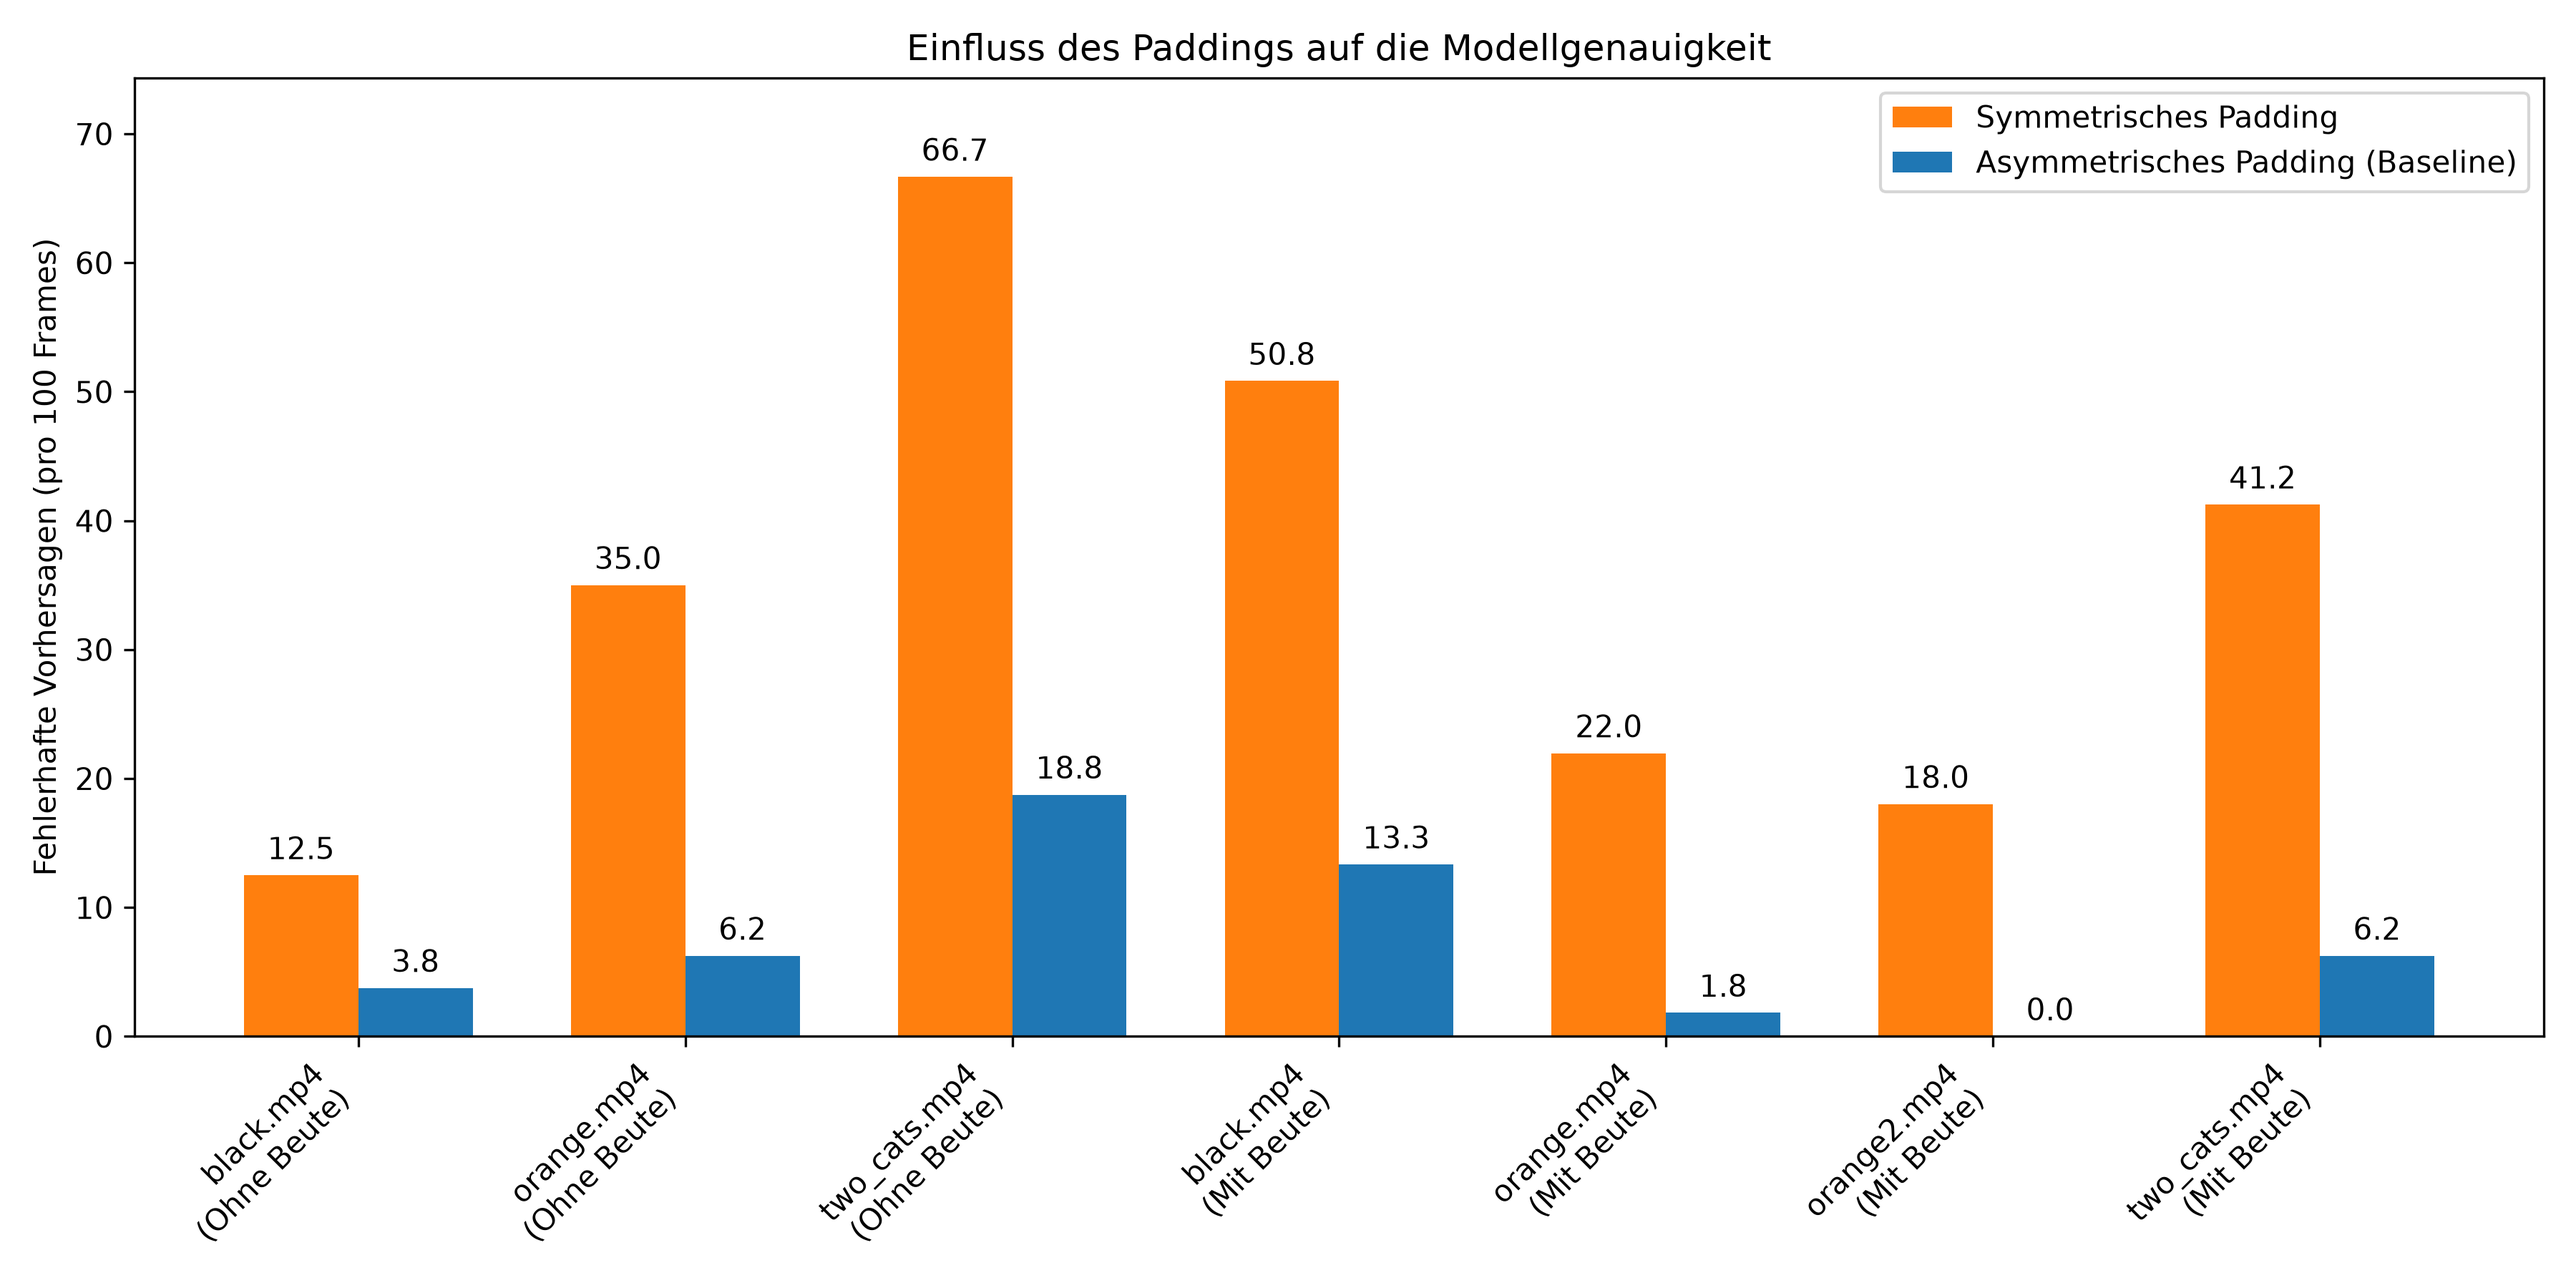
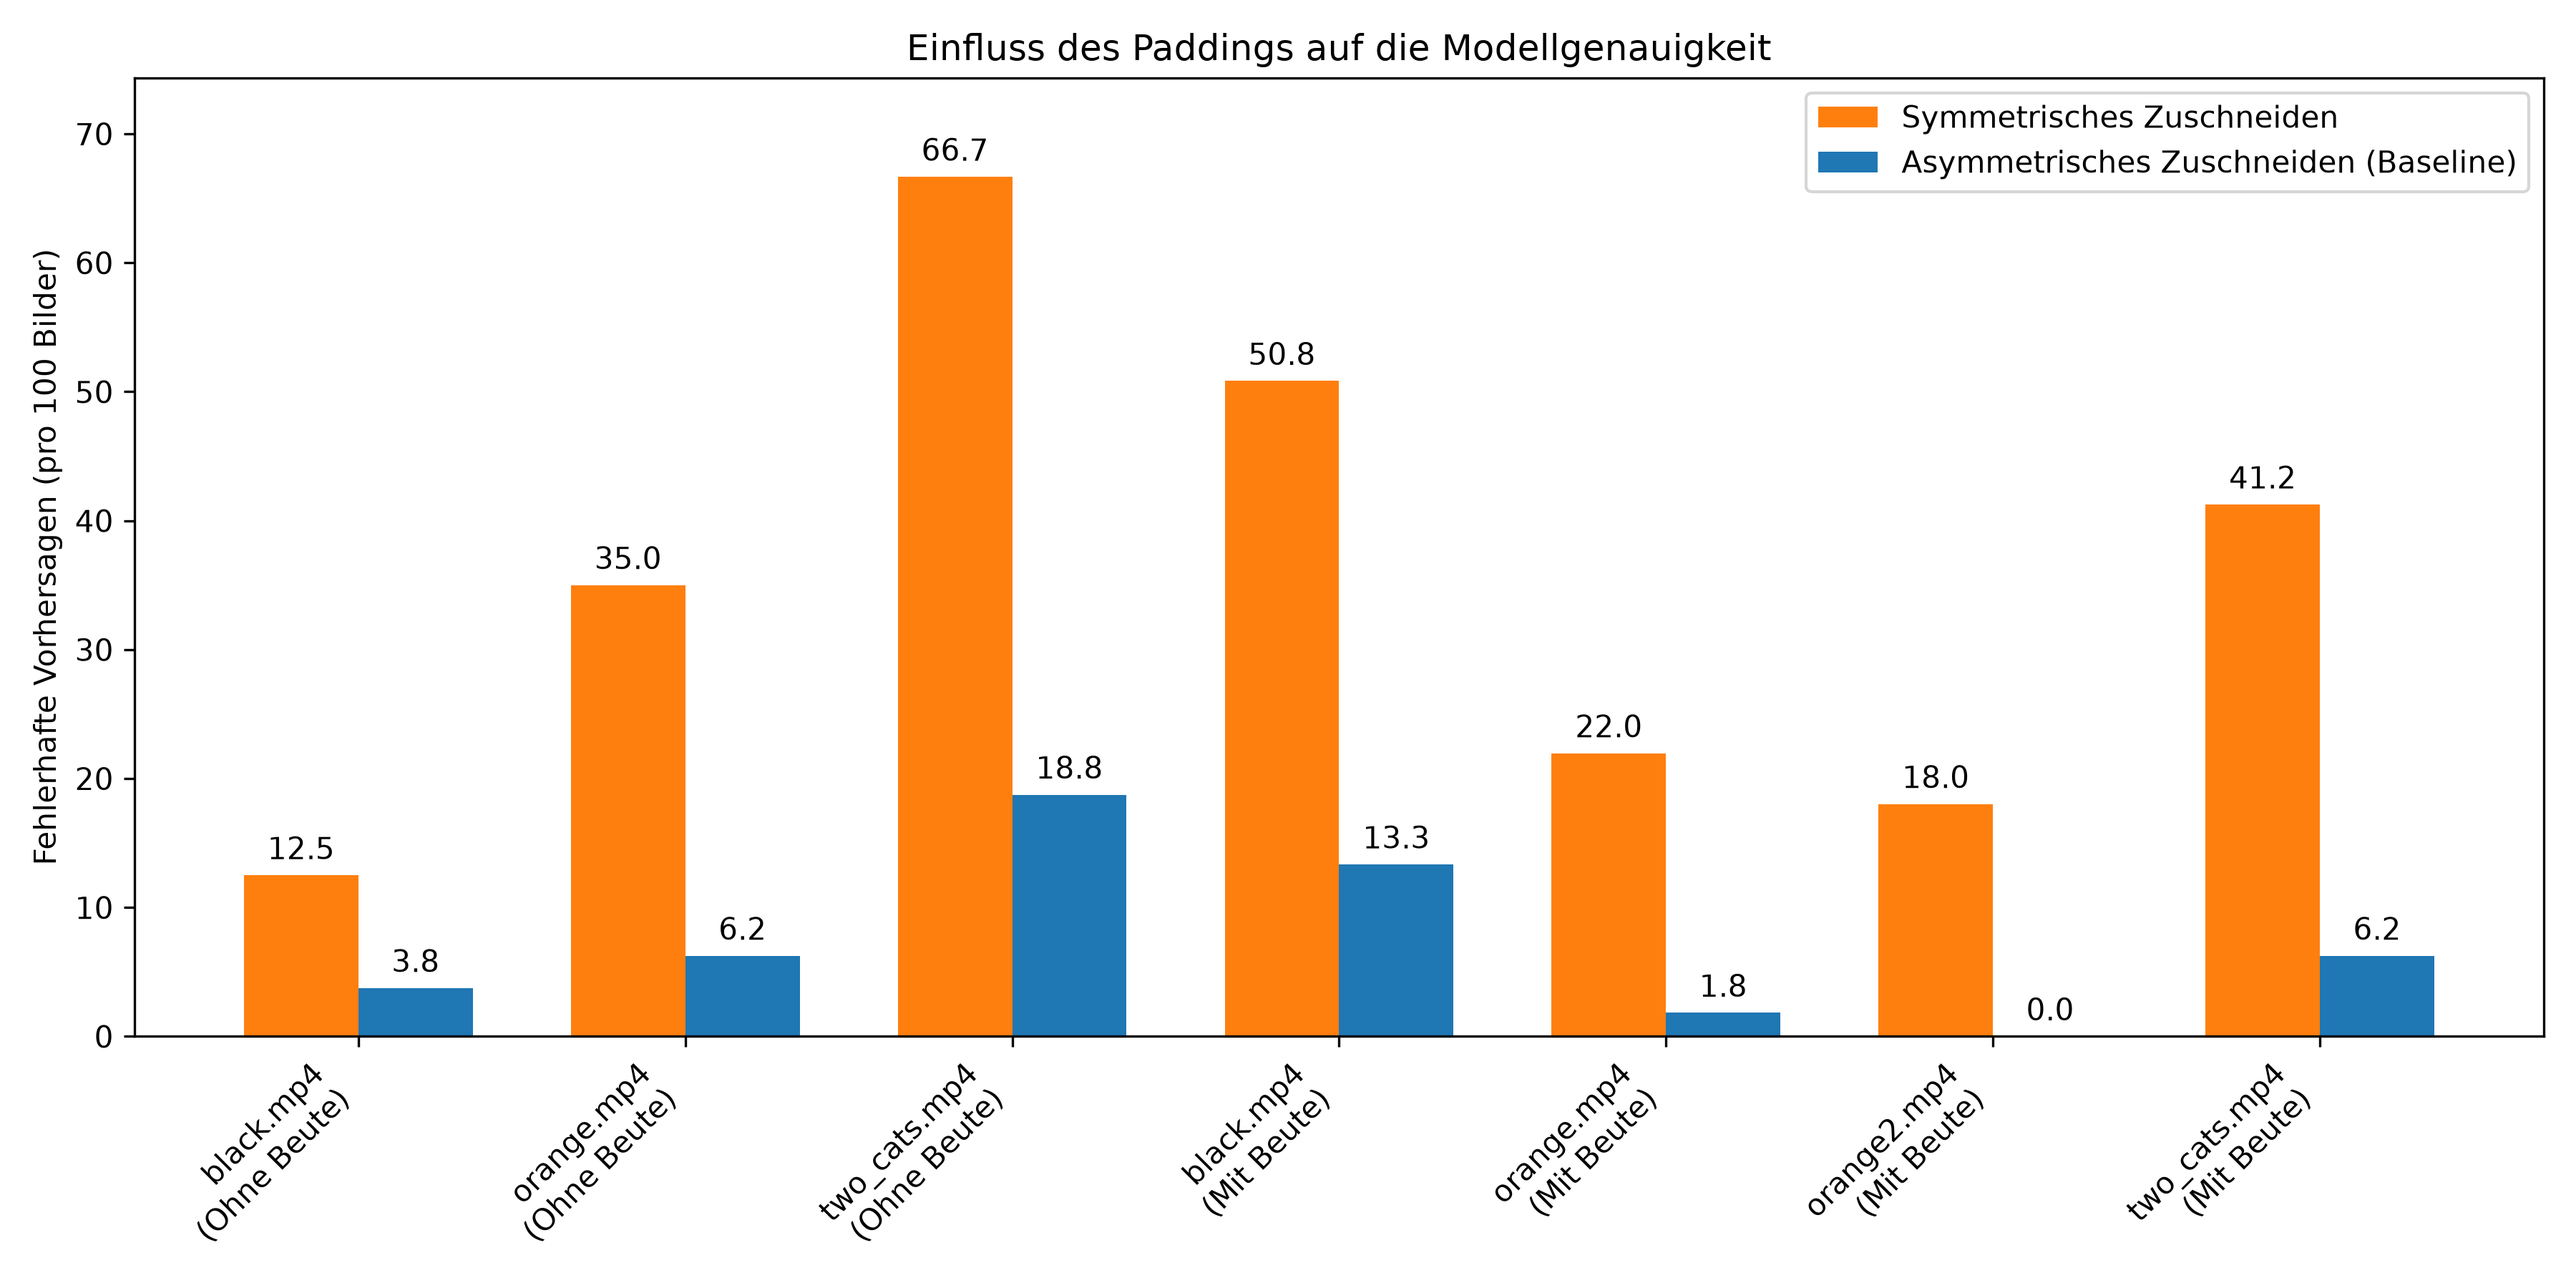
Translate all ablation plot texts strictly to German (e.g. frames->Bilder, Padding->Zuschneiden, Stage->stufig)

Changed region(s): [[0.6844, 0.0622, 0.9022, 0.1556], [0.0, 0.4044, 0.0311, 0.6844], [0.0, 0.1867, 0.0311, 0.3733]]

diff --git a/src/ablation_studies/generate_1stage_plot.py b/src/ablation_studies/generate_1stage_plot.py
@@ -34,7 +34,7 @@ while i < len(lines):
             b_cat_match = re.search(r'Katze übersehen: (\d+) /', lines[i])
             b_cat_miss = int(b_cat_match.group(1))
             
-            # 1-Stage
+            # 1-stufig
             while not 'Ablation (1-Stage)' in lines[i]: i += 1
             i += 1
             a_prey_match = re.search(r'Beute-Fehler: (\d+) /', lines[i])
@@ -69,10 +69,10 @@ width = 0.35
 fig, (ax1, ax2) = plt.subplots(2, 1, figsize=(14, 12))
 
 # Subplot 1: Beute-Fehler
-rects1_b = ax1.bar(x - width/2, b_prey_norm, width, label='2-Stage (Baseline)', color='#1f77b4')
-rects1_a = ax1.bar(x + width/2, a_prey_norm, width, label='1-Stage (Ablation)', color='#ff7f0e')
+rects1_b = ax1.bar(x - width/2, b_prey_norm, width, label='2-stufig (Baseline)', color='#1f77b4')
+rects1_a = ax1.bar(x + width/2, a_prey_norm, width, label='1-stufig (Ablation)', color='#ff7f0e')
 
-ax1.set_ylabel('Fehlentscheidungen (pro 100 Frames)')
+ax1.set_ylabel('Fehlentscheidungen (pro 100 Bilder)')
 ax1.set_title('Beute-Erkennung: Fehlerhafte Klassifikationen')
 ax1.set_xticks(x)
 ax1.set_xticklabels(labels, rotation=45, ha="right")
@@ -83,10 +83,10 @@ max_val1 = max(max(b_prey_norm) if b_prey_norm else 0, max(a_prey_norm) if a_pre
 ax1.set_ylim(0, max_val1 * 1.2 + 1.0)
 
 # Subplot 2: Verpasste Katzen
-rects2_b = ax2.bar(x - width/2, b_cat_norm, width, label='2-Stage (Baseline)', color='#1f77b4')
-rects2_a = ax2.bar(x + width/2, a_cat_norm, width, label='1-Stage (Ablation)', color='#ff7f0e')
+rects2_b = ax2.bar(x - width/2, b_cat_norm, width, label='2-stufig (Baseline)', color='#1f77b4')
+rects2_a = ax2.bar(x + width/2, a_cat_norm, width, label='1-stufig (Ablation)', color='#ff7f0e')
 
-ax2.set_ylabel('Übersehene Katzen (pro 100 Frames)')
+ax2.set_ylabel('Übersehene Katzen (pro 100 Bilder)')
 ax2.set_title('Katzen-Detektion: Komplett verpasste Katzen (False Negatives)')
 ax2.set_xticks(x)
 ax2.set_xticklabels(labels, rotation=45, ha="right")
@@ -100,3 +100,4 @@ fig.tight_layout()
 plt.savefig(r'C:\Public\Studium\Bachelorarbeit\images\ablation_1stage_evaluation.png', dpi=300)
 plt.close(fig)
 print("Plot generated successfully!")
+

diff --git a/src/ablation_studies/generate_crop_plot.py b/src/ablation_studies/generate_crop_plot.py
@@ -57,10 +57,10 @@ x = np.arange(len(labels))
 width = 0.35
 
 fig, ax = plt.subplots(figsize=(12, 6))
-rects1 = ax.bar(x - width/2, a_norm, width, label='Symmetrisches Padding', color='#ff7f0e')
-rects2 = ax.bar(x + width/2, b_norm, width, label='Asymmetrisches Padding (Baseline)', color='#1f77b4')
+rects1 = ax.bar(x - width/2, a_norm, width, label='Symmetrisches Zuschneiden', color='#ff7f0e')
+rects2 = ax.bar(x + width/2, b_norm, width, label='Asymmetrisches Zuschneiden (Baseline)', color='#1f77b4')
 
-ax.set_ylabel('Fehlerhafte Vorhersagen (pro 100 Frames)')
+ax.set_ylabel('Fehlerhafte Vorhersagen (pro 100 Bilder)')
 ax.set_title('Einfluss des Paddings auf die Modellgenauigkeit')
 ax.set_xticks(x)
 ax.set_xticklabels(labels, rotation=45, ha="right")
@@ -77,3 +77,4 @@ plt.savefig(r'C:\Public\Studium\Bachelorarbeit\images\ablation_crop_state_change
 plt.close(fig)
 
 print("Plot generated successfully!")
+

diff --git a/src/ablation_studies/plot_ablation.py b/src/ablation_studies/plot_ablation.py
@@ -19,7 +19,7 @@ rects1 = ax.bar(x - width/2, ablation, width, label='Ohne Glättung (history=1)'
 rects2 = ax.bar(x + width/2, baseline, width, label='Mit Zustandsautomat (history=15)', color='#1f77b4')
 
 # Add some text for labels, title and custom x-axis tick labels, etc.
-ax.set_ylabel('Zustandswechsel (pro 100 Frames)')
+ax.set_ylabel('Zustandswechsel (pro 100 Bilder)')
 ax.set_title('Auswirkung der zeitlichen Glättung auf False Positives (Normalisiert)')
 ax.set_xticks(x)
 ax.set_xticklabels(labels)

diff --git a/src/ablation_studies/plot_ablation_with_prey.py b/src/ablation_studies/plot_ablation_with_prey.py
@@ -19,7 +19,7 @@ fig, ax = plt.subplots(figsize=(8, 5))
 rects1 = ax.bar(x - width/2, ablation, width, label='Ohne Glättung (history=1)', color='#ff7f0e')
 rects2 = ax.bar(x + width/2, baseline, width, label='Mit Zustandsautomat (history=15)', color='#1f77b4')
 
-ax.set_ylabel('Zustandswechsel (pro 100 Frames)')
+ax.set_ylabel('Zustandswechsel (pro 100 Bilder)')
 ax.set_title('Auswirkung der zeitlichen Glättung auf True Positives (Normalisiert)')
 ax.set_xticks(x)
 ax.set_xticklabels(labels)

diff --git a/src/ablation_studies/plot_ablation_crop.py b/src/ablation_studies/plot_ablation_crop.py
@@ -19,7 +19,7 @@ rects1 = ax.bar(x - width/2, ablation, width, label='Ohne Randerweiterung (Ablat
 rects2 = ax.bar(x + width/2, baseline, width, label='Nur nach unten (Baseline)', color='#2ca02c')
 
 # Add some text for labels, title and custom x-axis tick labels, etc.
-ax.set_ylabel('Zustandswechsel (pro 100 Frames)')
+ax.set_ylabel('Zustandswechsel (pro 100 Bilder)')
 ax.set_title('Auswirkung der Randerweiterung nach unten (ohne Automaten)')
 ax.set_xticks(x)
 ax.set_xticklabels(labels)

diff --git a/src/ablation_studies/generate_plots.py b/src/ablation_studies/generate_plots.py
@@ -61,7 +61,7 @@ def make_plot(data, title, out_path, color_ab, color_base):
     rects1 = ax.bar(x - width/2, a_norm, width, label='Ohne Glättung (history=1)', color=color_ab)
     rects2 = ax.bar(x + width/2, b_norm, width, label='Mit Zustandsautomat (history=15)', color=color_base)
     
-    ax.set_ylabel('Zustandswechsel (pro 100 Frames)')
+    ax.set_ylabel('Zustandswechsel (pro 100 Bilder)')
     ax.set_title(title)
     ax.set_xticks(x)
     ax.set_xticklabels(labels)

diff --git a/src/ablation_studies/generate_ablation_dataset.py b/src/ablation_studies/generate_ablation_dataset.py
@@ -51,7 +51,7 @@ def process_directory(img_paths, face_detector, class_id, apply_padding):
     return results_list
 
 def main():
-    parser = argparse.ArgumentParser(description='Auto-Annotate 1-Stage Detector Dataset')
+    parser = argparse.ArgumentParser(description='Auto-Annotate 1-stufig Detector Dataset')
     
     # Standard-Werte für lokale Ausführung hinzugefügt
     default_base = os.path.dirname(os.path.dirname(os.path.dirname(os.path.abspath(__file__))))

diff --git a/src/ablation_studies/plot_ablation_clahe.py b/src/ablation_studies/plot_ablation_clahe.py
@@ -19,7 +19,7 @@ rects1 = ax.bar(x - width/2, ablation, width, label='Ohne CLAHE (Ablation)', col
 rects2 = ax.bar(x + width/2, baseline, width, label='Mit CLAHE (Baseline)', color='#17becf')
 
 # Add some text for labels, title and custom x-axis tick labels, etc.
-ax.set_ylabel('Zustandswechsel (pro 100 Frames)')
+ax.set_ylabel('Zustandswechsel (pro 100 Bilder)')
 ax.set_title('Auswirkung des CLAHE Filters (ohne Automaten)')
 ax.set_xticks(x)
 ax.set_xticklabels(labels)
